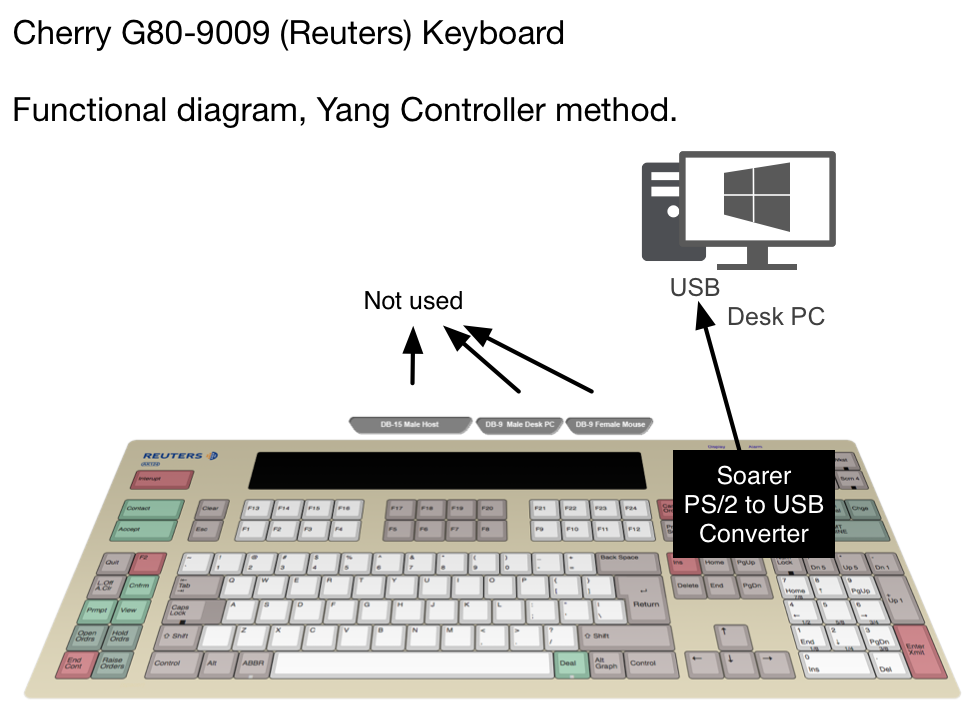
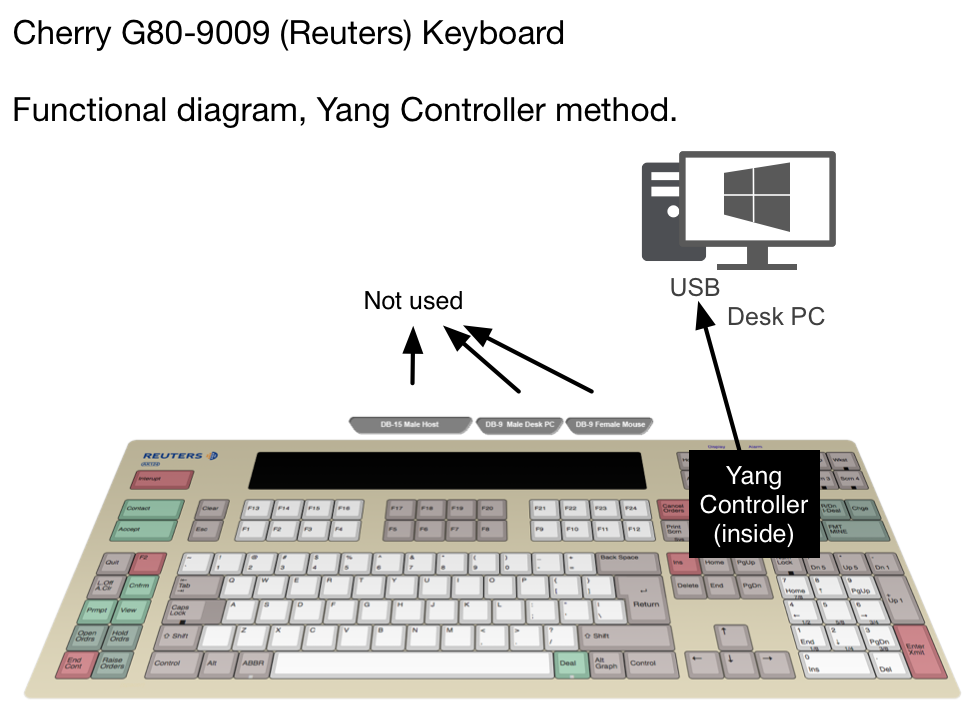
Move connection diagram images into method .md files. Correct text in ...yang.png

Changed region(s): [[0.6846, 0.625, 0.8714, 0.8125]]

diff --git a/method-2-direct.md b/method-2-direct.md
@@ -1,5 +1,7 @@
 ## Connection Method #2, Keyboard direct to computer
 
+![The configuration](../master/images/Cherry%20G80-9009%20Direct.png "Direct connect diagram")
+
 ### What it is:
 
 * This keyboard requires a 12V, 500mA power supply to operate. The power is
@@ -38,7 +40,6 @@ calculator) should all still work. TODO: test this.
 
 ---
 
-![The configuration](../master/images/Cherry%20G80-9009%20Direct.png "Direct connect diagram")
 ```
    Reuters AK124 Keyboard
    

diff --git a/method-1-yangdigi-controller.md b/method-1-yangdigi-controller.md
@@ -1,5 +1,7 @@
 ## Connection Method #1, Yangdigi's custom controller card to USB
 
+![The configuration](../master/images/Cherry%20G80-9009%20Yang%20Controller.png "Yang Controller connect diagram")
+
 ## What it is:
 
 * A "drop in" solution. A separate new electronic card that plugs into the

diff --git a/method-3-direct+soarer.md b/method-3-direct+soarer.md
@@ -1,5 +1,6 @@
 ## Connection Method #3, Keyboard direct to computer and a Soarer PS/2 to USB converter
 
+![The configuration](../master/images/Cherry%20G80-9009%20Direct+Soarer.png "Direct+Soarer connect diagram")
 
 ### What it is:
 

diff --git a/method-4-keyboard-to-breakout-box.md b/method-4-keyboard-to-breakout-box.md
@@ -1,5 +1,7 @@
 ## Keyboard to Breakout Box
 
+![The configuration](../master/images/Cherry%20G80-9009%20KVM.png "KVM connect diagram")
+
 ### There are two "KVM" Boxes:
 
 * KMD-3		https://geekhack.org/index.php?topic=36702.0
